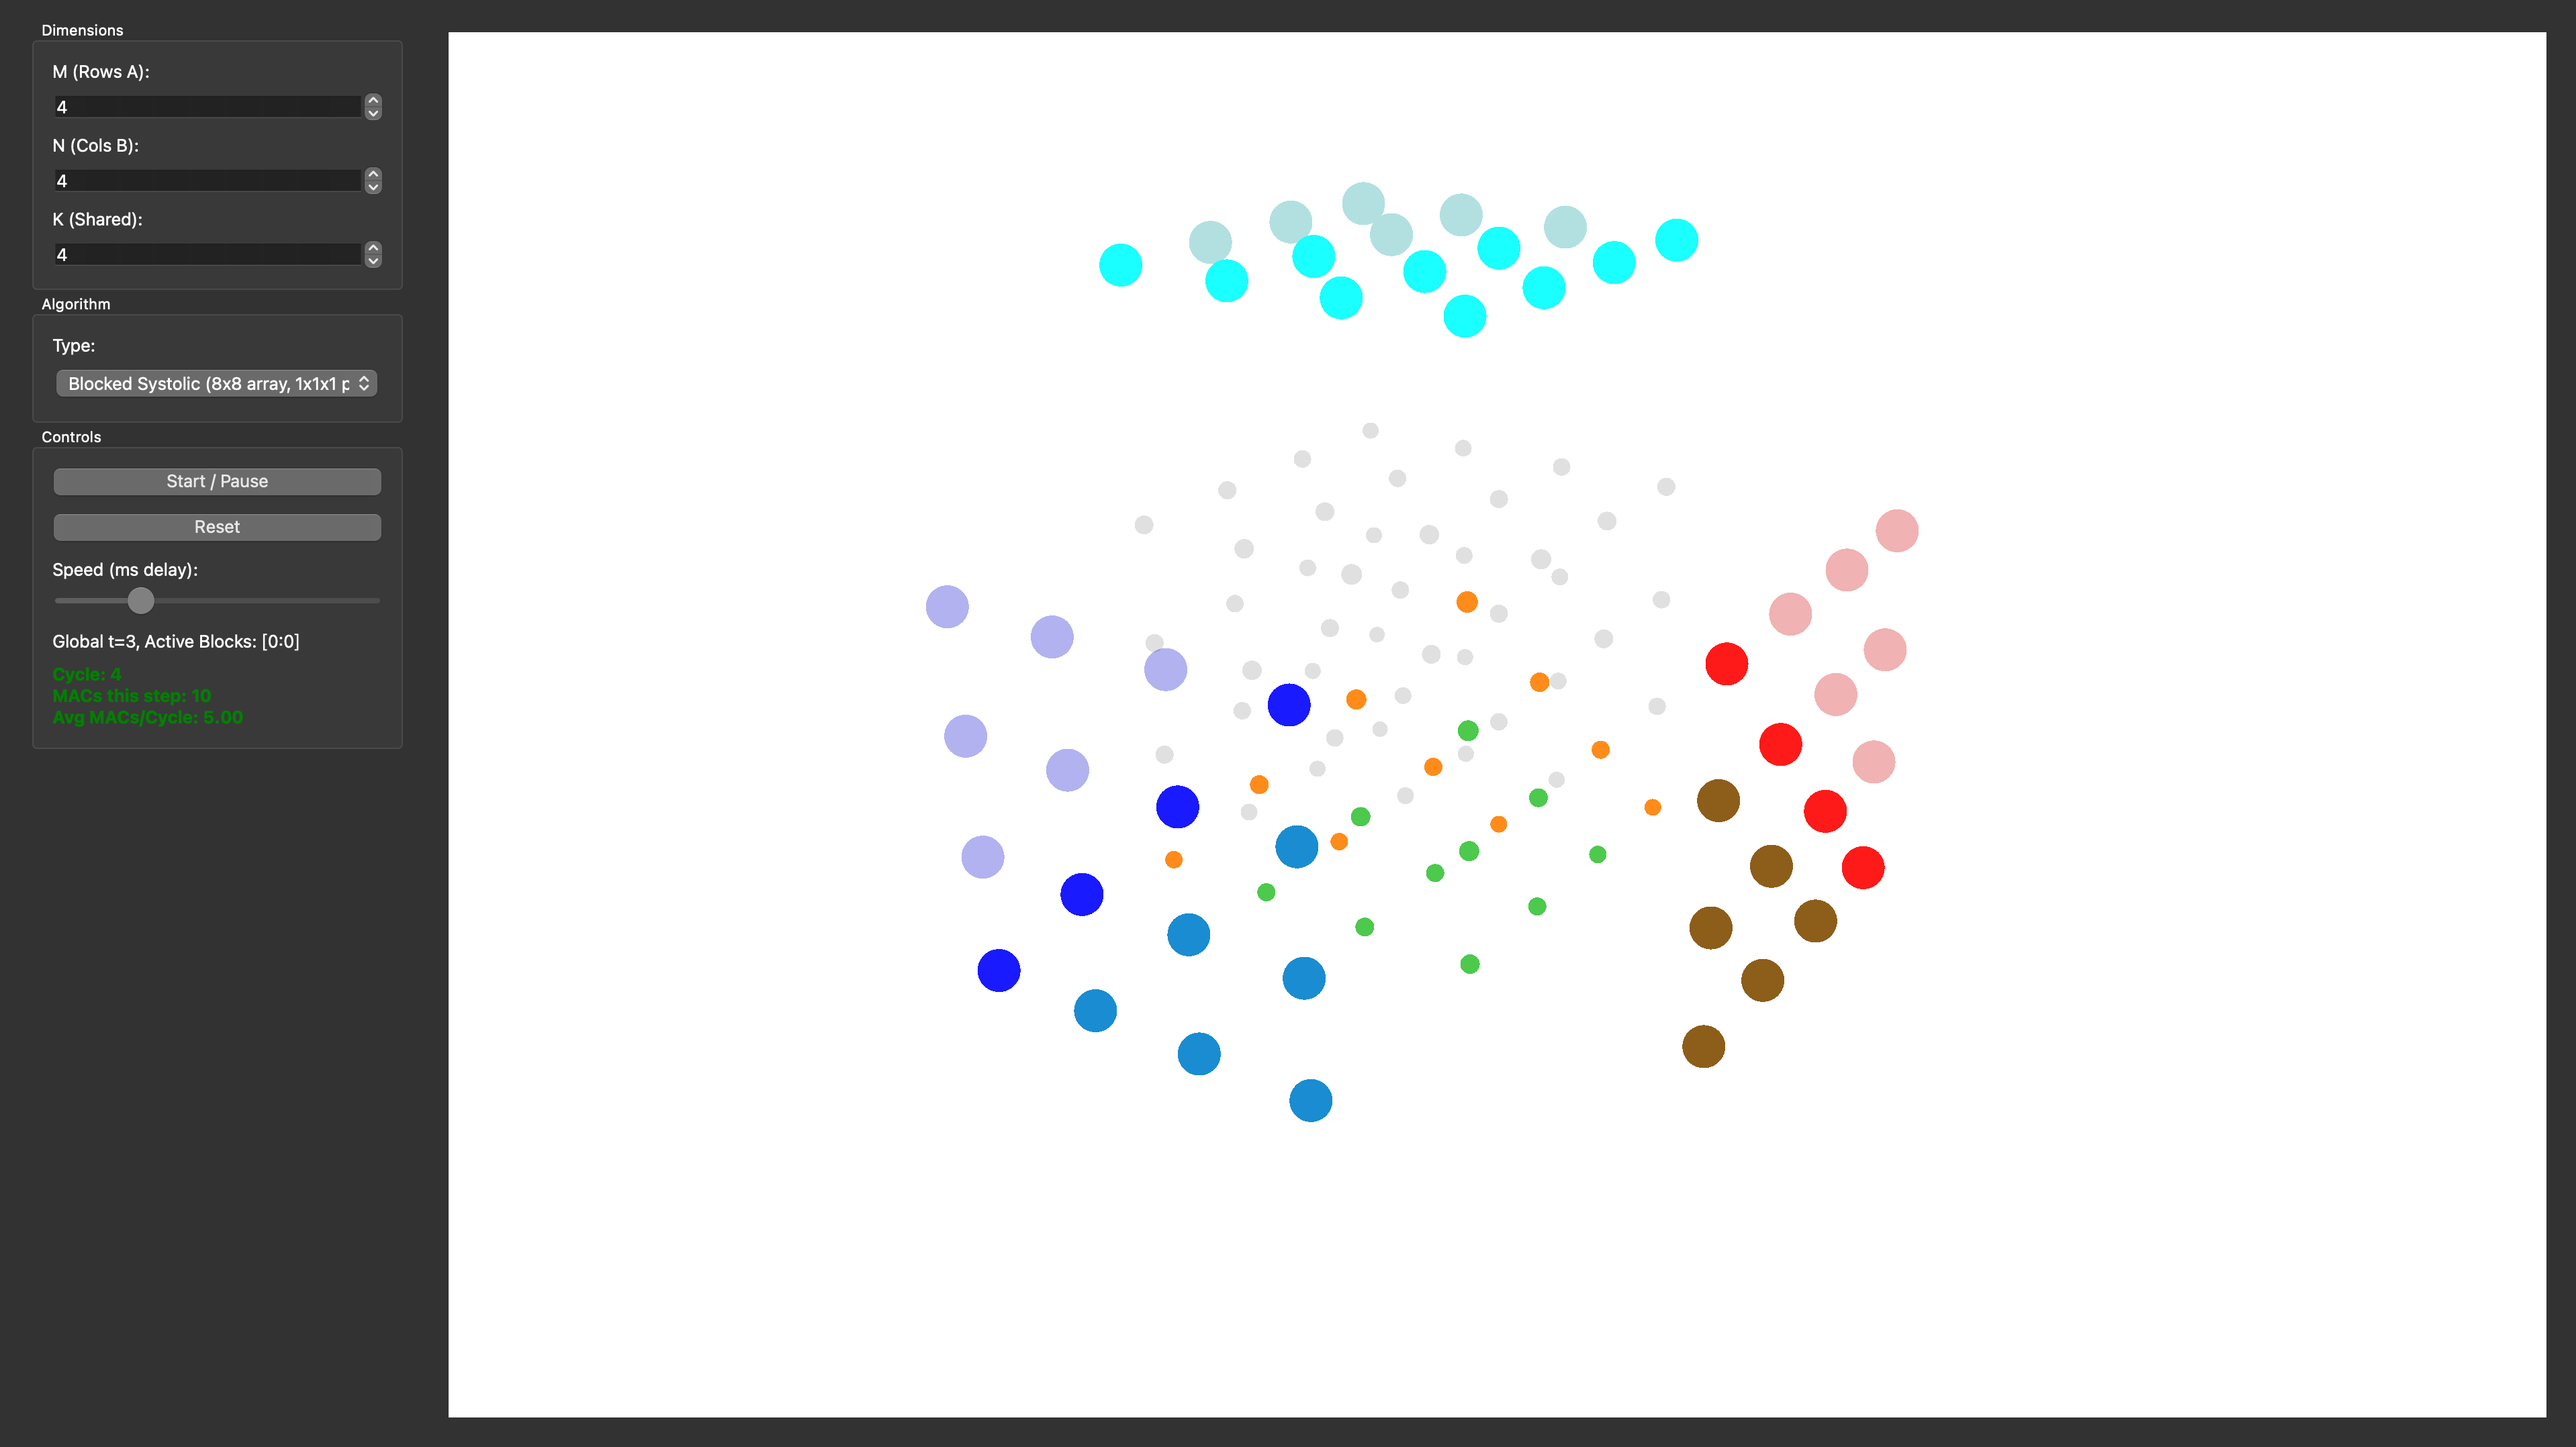
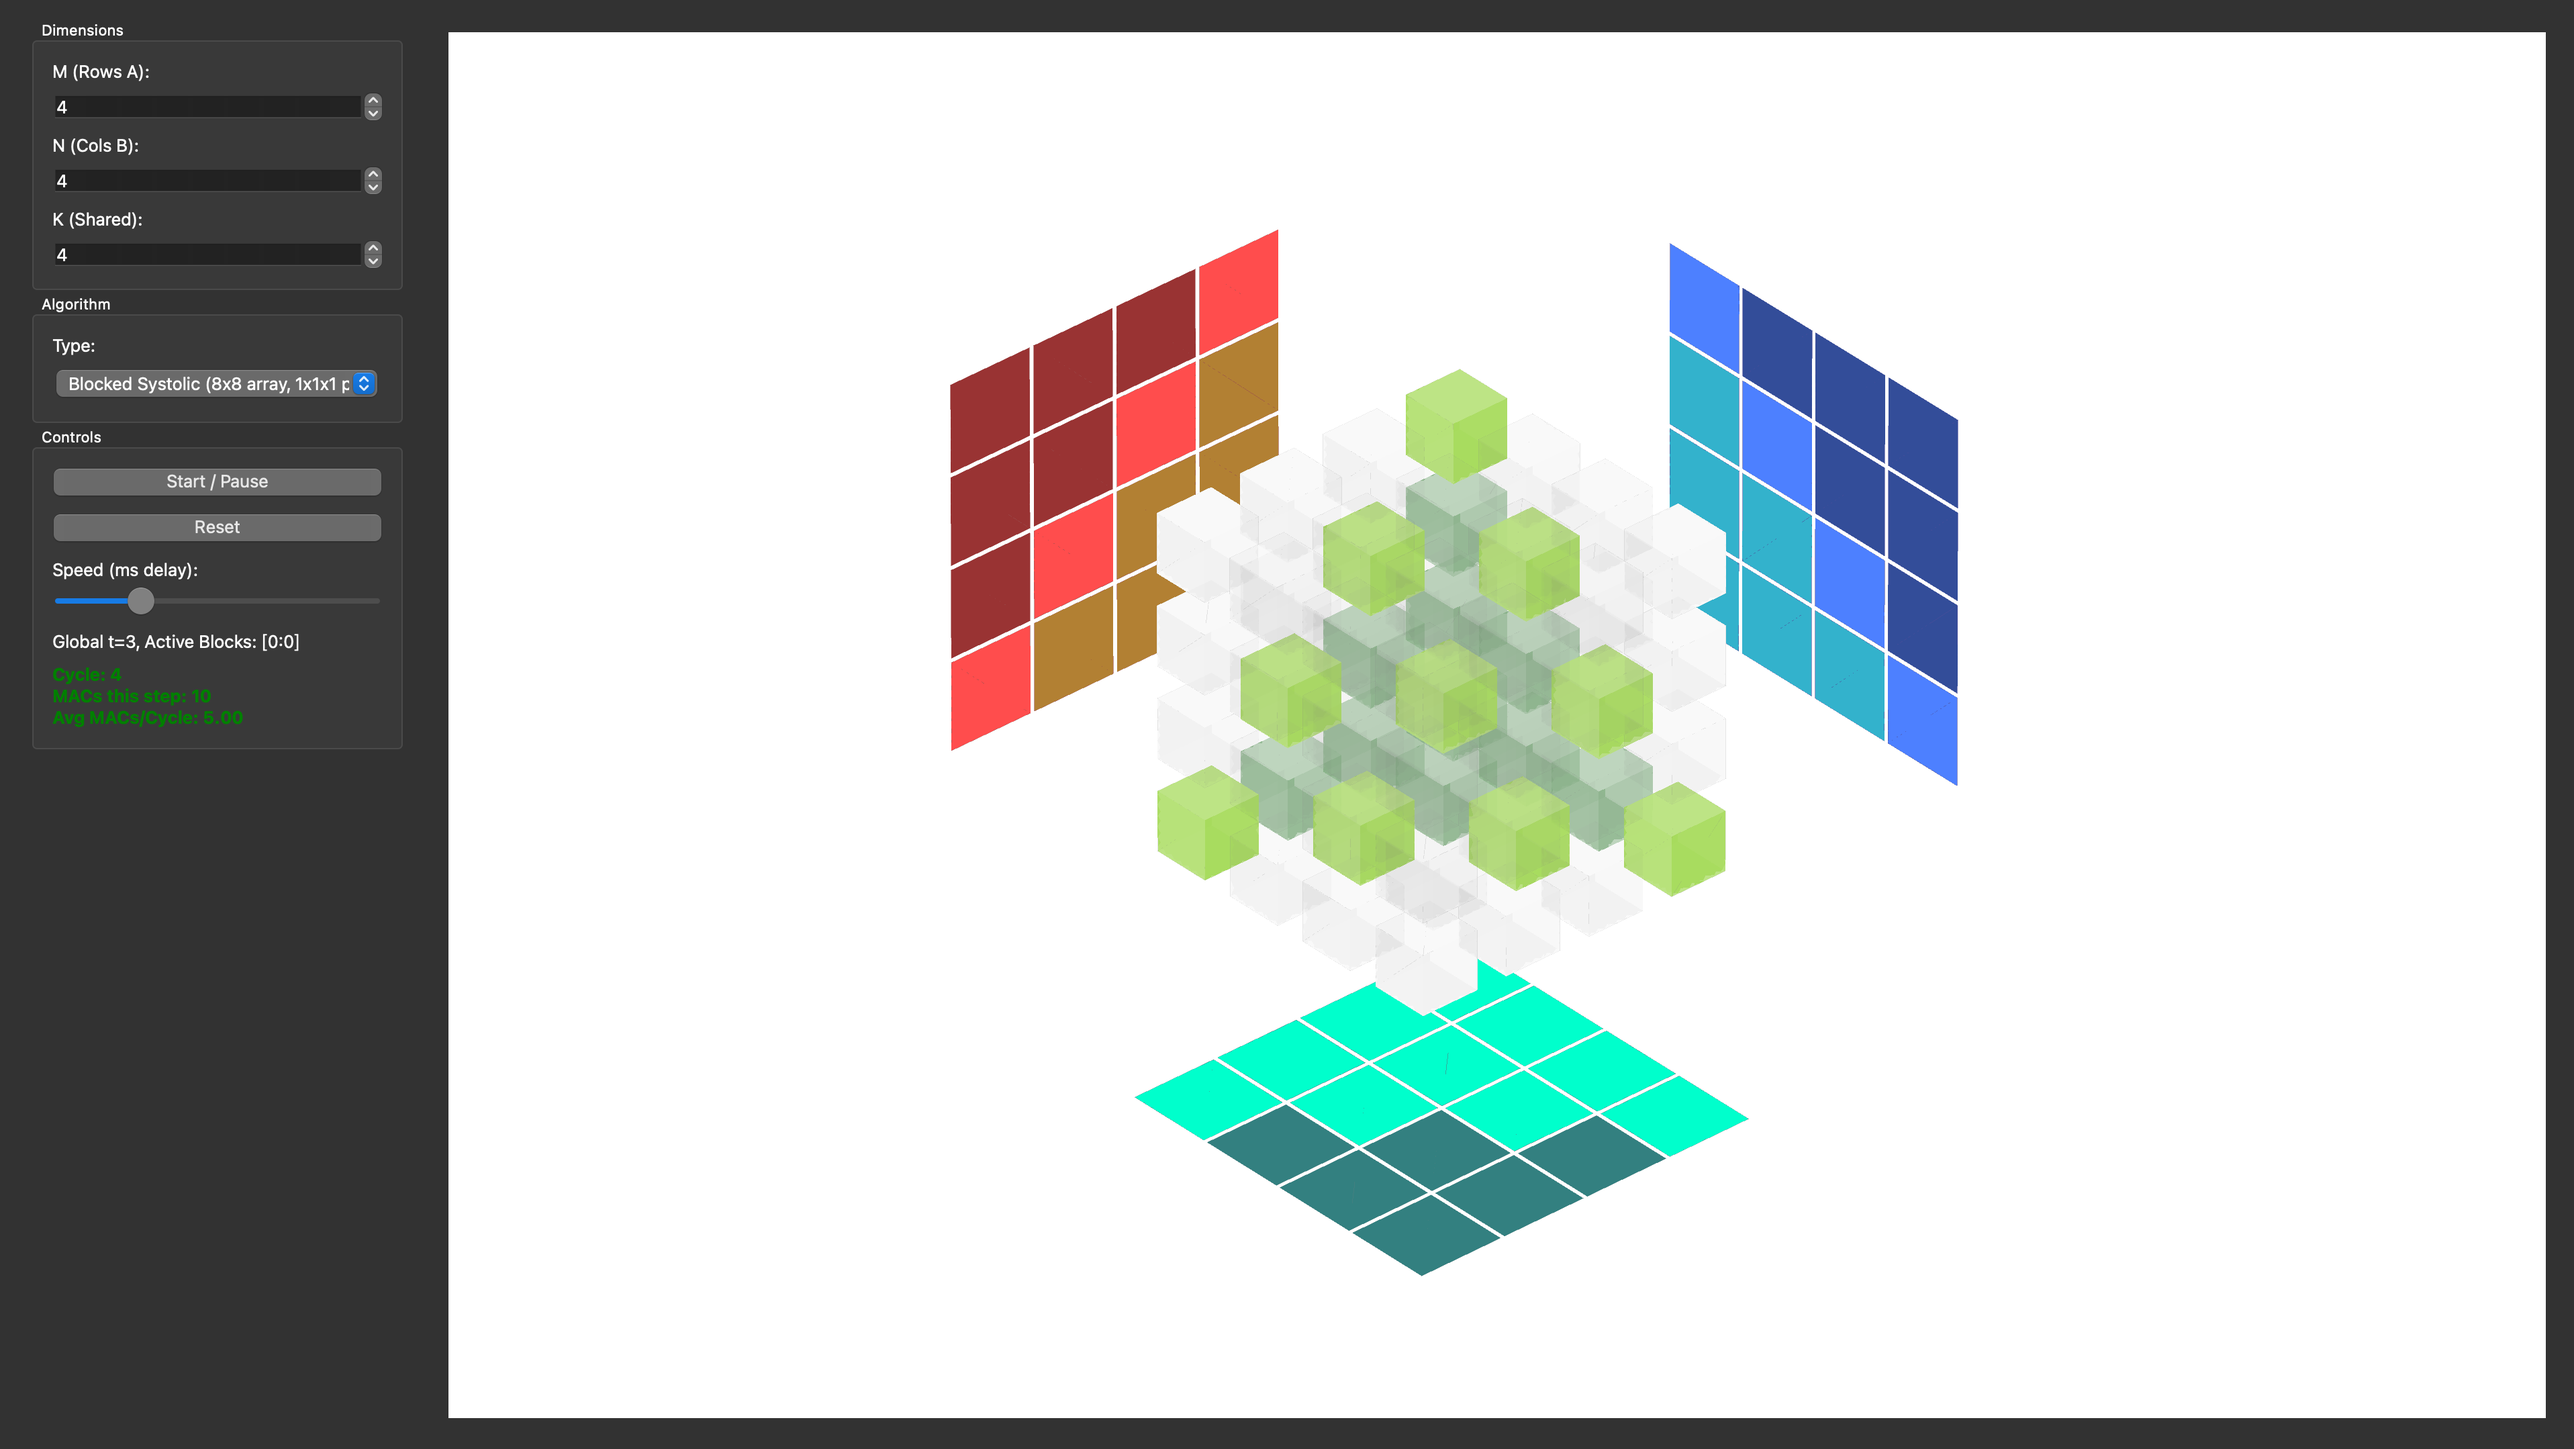
Opt: Viewpoint & Screeshot

diff --git a/src/visualizer.py b/src/visualizer.py
@@ -14,13 +14,16 @@ class Visualizer3D(gl.GLViewWidget):
         self.setFocusPolicy(Qt.FocusPolicy.StrongFocus)
         self.setFocus()
         
-        # NVIDIA-style camera angle (isometric-like, looking from front-right-top)
-        # This gives a good view of A (left wall), B (back wall), C (top), and the 3D volume
-        self.setCameraPosition(distance=max(M, N, K) * 2.8, elevation=25, azimuth=-50)
+        # NVIDIA-style camera angle (isometric, looking from front-right-top)
+        # Clear view of A (left wall), B (back wall), C (top), and the 3D volume
+        self.setCameraPosition(elevation=30, azimuth=45)
+        
+        # Set view center to the center of the cube
+        self.opts['center'] = QVector3D(M / 2 - 0.5, N / 2 - 0.5, K / 2 - 0.75)
         
         # Orthographic projection for cleaner look
         self.opts['fov'] = 1
-        self.opts['distance'] = max(M, N, K) * 120
+        self.opts['distance'] = max(M, N, K) * 210
         
         self.setBackgroundColor('#ffffff') # 白色背景
 
@@ -45,7 +48,7 @@ class Visualizer3D(gl.GLViewWidget):
         self.active_color_C = np.array([0.0, 1.0, 0.8, 1])  # Bright Cyan
         
         # Cube size
-        self.cube_size = 0.5
+        self.cube_size = 0.65
         self.quad_size = 0.95
         
         self.setup_volume_grid()
@@ -183,11 +186,11 @@ class Visualizer3D(gl.GLViewWidget):
         return x * (self.N * self.K) + y * self.K + z
 
     def setup_projections(self):
-        # A Projection: x-z plane, y fixed at -1.5
+        # A Projection: x-z plane, y fixed at -3 (further from cube)
         grid_A = np.indices((self.M, self.K))
         x_A = grid_A[0].ravel().astype(np.float32)
         z_A = grid_A[1].ravel().astype(np.float32)
-        y_A = np.full_like(x_A, -1.5)
+        y_A = np.full_like(x_A, -3)
         self.proj_A_pos = np.stack((x_A, y_A, z_A), axis=1)
         
         self.proj_A_verts, self.proj_A_faces = self.create_quad_mesh_data(
@@ -210,11 +213,11 @@ class Visualizer3D(gl.GLViewWidget):
         )
         self.addItem(self.mesh_A)
         
-        # B Projection: y-z plane, x fixed at -1.5
+        # B Projection: y-z plane, x fixed at -3 (further from cube)
         grid_B = np.indices((self.N, self.K))
         y_B = grid_B[0].ravel().astype(np.float32)
         z_B = grid_B[1].ravel().astype(np.float32)
-        x_B = np.full_like(y_B, -1.5)
+        x_B = np.full_like(y_B, -3)
         self.proj_B_pos = np.stack((x_B, y_B, z_B), axis=1)
         
         self.proj_B_verts, self.proj_B_faces = self.create_quad_mesh_data(
@@ -238,11 +241,11 @@ class Visualizer3D(gl.GLViewWidget):
         self.addItem(self.mesh_B)
     
     def setup_ceiling_C(self):
-        # C Projection: x-y plane, z fixed at K + 0.5
+        # C Projection: x-y plane, z fixed at -3 (below the cube, further away)
         grid_C = np.indices((self.M, self.N))
         x_C = grid_C[0].ravel().astype(np.float32)
         y_C = grid_C[1].ravel().astype(np.float32)
-        z_C = np.full_like(x_C, self.K + 0.5)
+        z_C = np.full_like(x_C, -3)
         self.proj_C_pos = np.stack((x_C, y_C, z_C), axis=1)
         
         self.proj_C_verts, self.proj_C_faces = self.create_quad_mesh_data(
